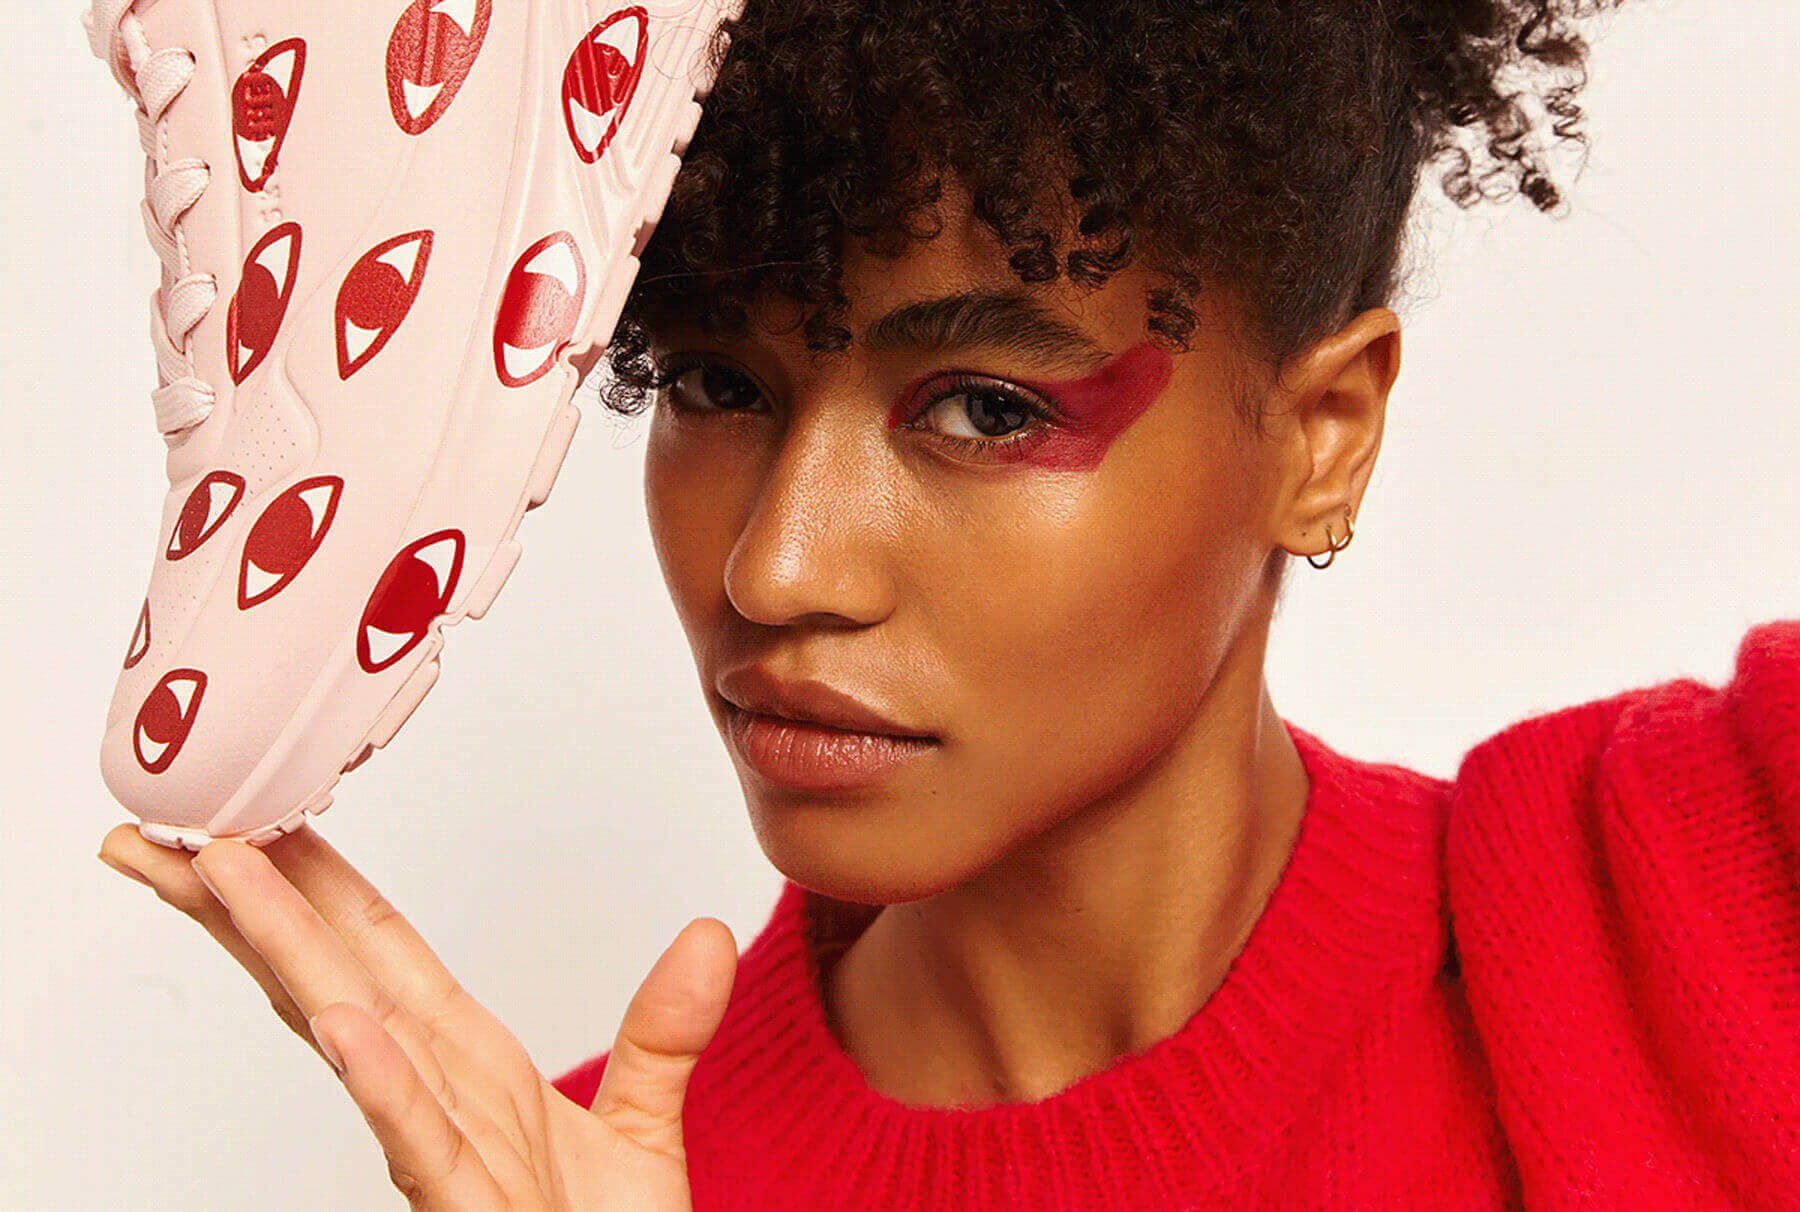
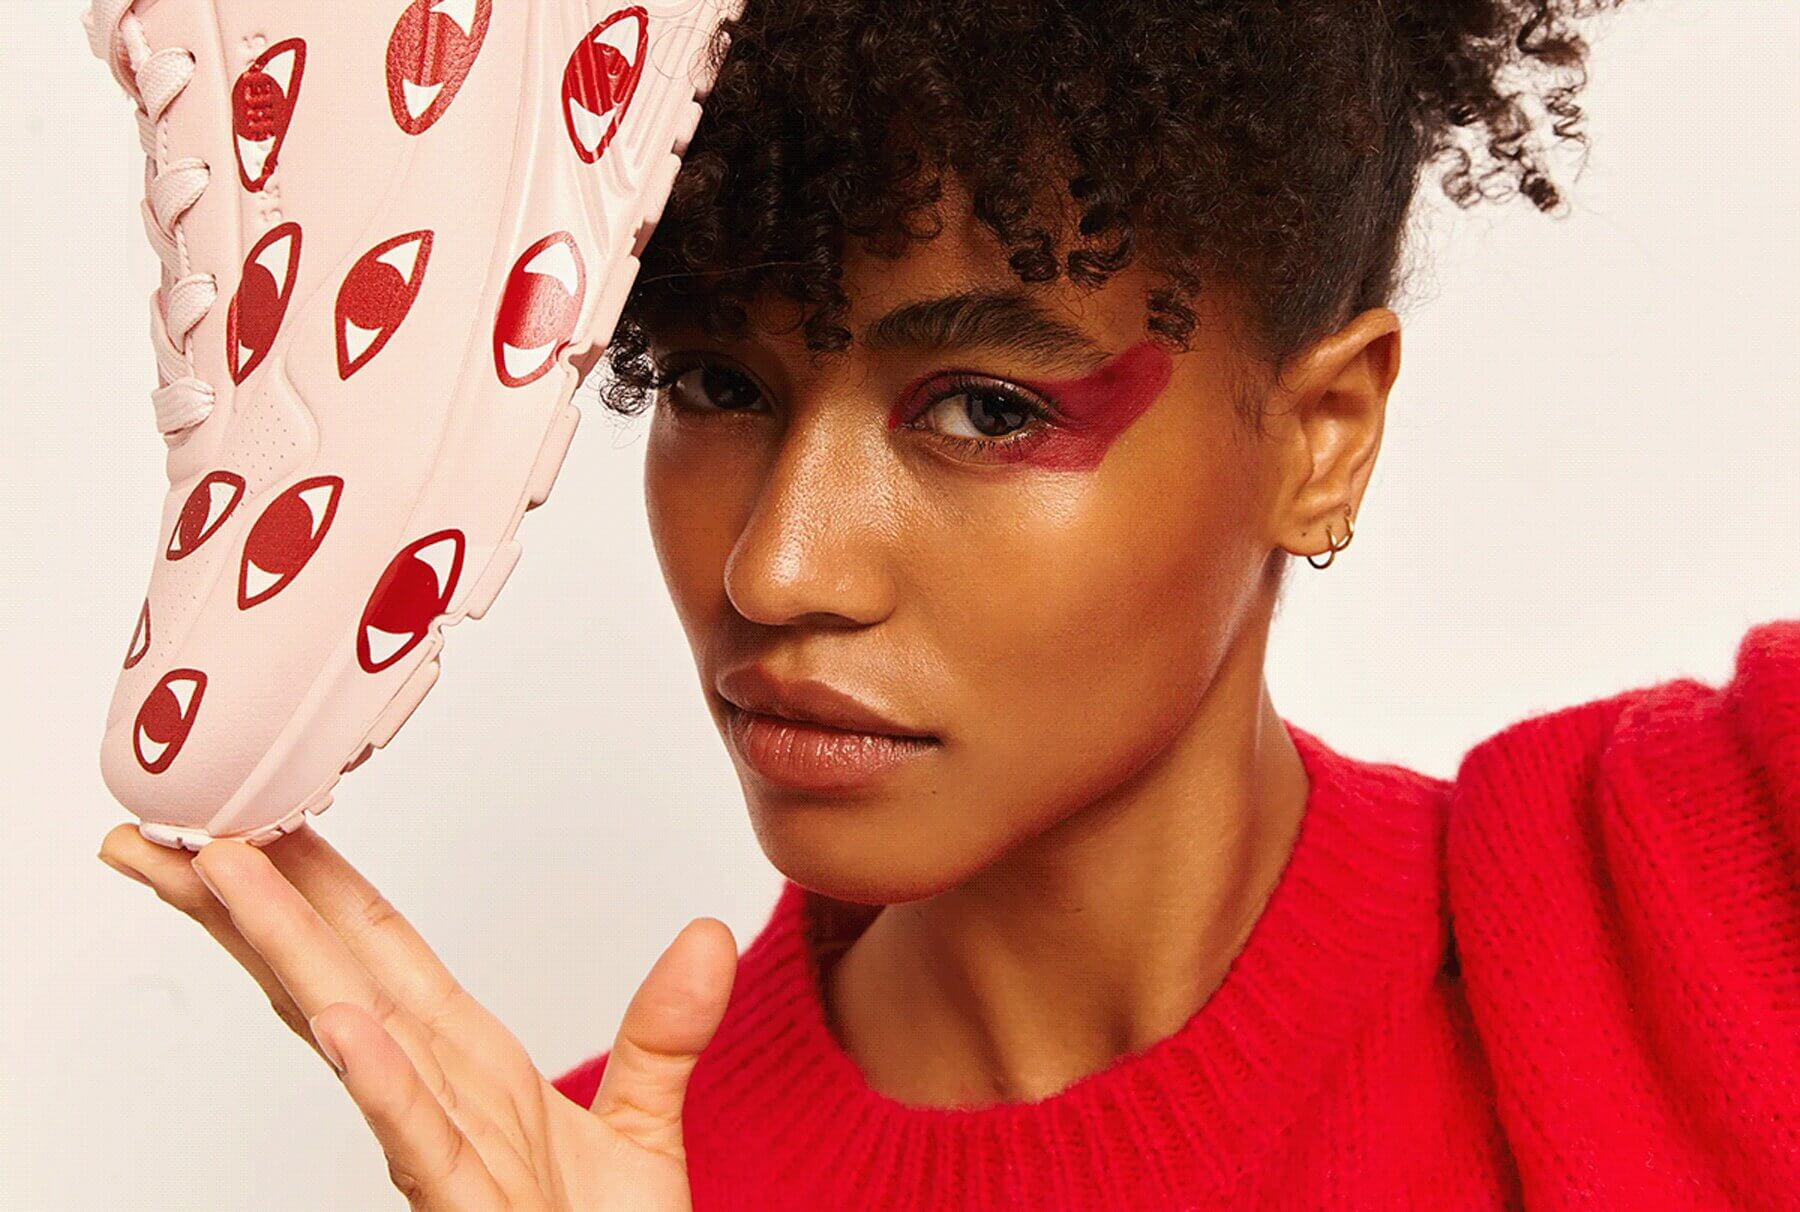
Mejora fotos proyecto sketchers

diff --git a/css/work.css b/css/work.css
@@ -23,7 +23,7 @@
     overflow: hidden;
 }
 
-.Project{
+.Container-img.Project{
     height: 34.375rem;
 }
 
@@ -92,6 +92,11 @@
         height: 12.5rem;
         overflow: hidden;
     }
+
+    .Container-img.Project{
+        height: 28.125rem;
+    }
+    
 
     .Img-picture,
     .Img-archive {
